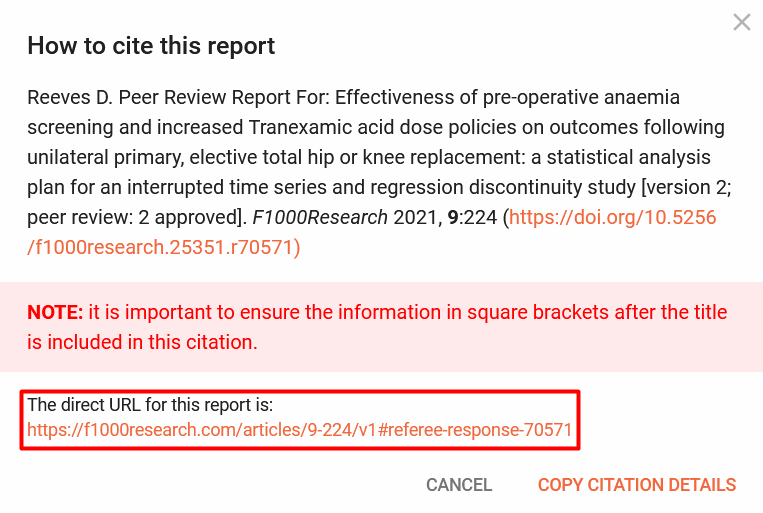
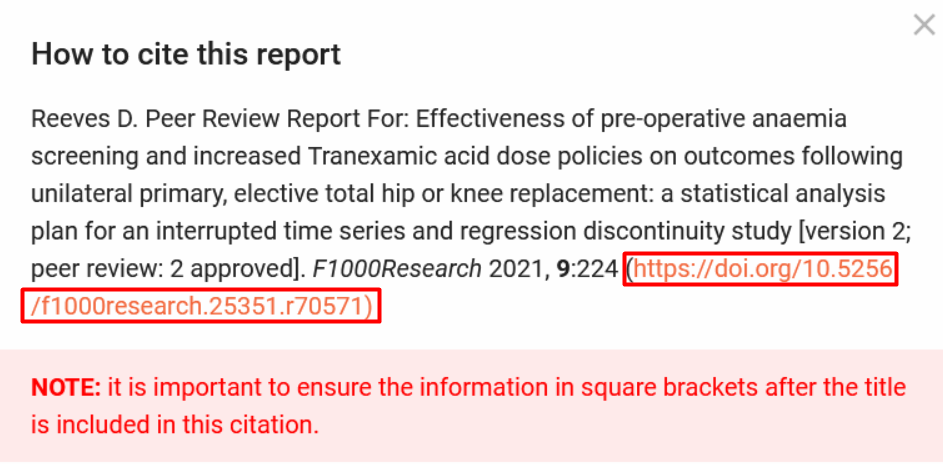
Botón del npm package implementado + cambios menores

diff --git a/rewards-app/src/components/Table/TableReviewers.js b/rewards-app/src/components/Table/TableReviewers.js
@@ -50,7 +50,7 @@ export default class HeaderSearch extends Component {
             var color = stc(reviewer.account)
             return (
                 <Table.Body>
-                    <Table.Row key={key}>
+                    <Table.Row key={reviewer._id}>
                         <Table.Cell textAlign="left">
                             <Header as='h3' textAlign='left'>
                                 <Image
@@ -63,7 +63,7 @@ export default class HeaderSearch extends Component {
                         </Table.Cell>
                         <Table.Cell textAlign='center' >
                             <Header as='h3'>
-                                {thanks[key]}
+                                {thanks[reviewer._id]}
                                         &nbsp;
                                         <Icon name="thumbs up outline" color="blue"></Icon>
                             </Header>
@@ -71,13 +71,13 @@ export default class HeaderSearch extends Component {
                         <Table.Cell>
                             <Header as='h5' textAlign='center'>
                                 <Label color='yellow'>
-                                    {golds[key].length}
+                                    {golds[reviewer._id].length}
                                 </Label>
                                 <Label color='grey'>
-                                    {silvers[key].length}
+                                    {silvers[reviewer._id].length}
                                 </Label>
                                 <Label color='brown'>
-                                    {bronzes[key].length}
+                                    {bronzes[reviewer._id].length}
                                 </Label>
                             </Header>
                         </Table.Cell>

diff --git a/rewards-app/src/components/Profile/Profile.js b/rewards-app/src/components/Profile/Profile.js
@@ -3,6 +3,7 @@ import { Card, Grid, Statistic, Label, Header, List, Image, GridColumn, Containe
 import api from '../../api'
 import boton from './boton.png'
 import './Profile.css'
+import {Button as RewardButton} from '@carlosrodriher/reward-button'
 const stc = require('string-to-color');
 
 
@@ -155,14 +156,9 @@ export default class Profile extends Component {
                                                 <List.Content>
                                                     <List.Header><a href={review.reviewId} target="_blank">{review.title}</a></List.Header>
                                                     {review.description}
-                                                    <Image
-                                                        src={boton}
-                                                        as='a'
-                                                        size='tiny'
-                                                        floated='right'
-                                                        href={`http://localhost:3001/?rev=${review.reviewId}`}
-                                                        target='_blank'
-                                                    />
+                                                    <div class="rewards">
+                                                    <RewardButton review={review.reviewId}></RewardButton>
+                                                    </div>
                                                 </List.Content>
                                                 <List.Description>
                                                     <Modal

diff --git a/rewards-app/src/components/FAQ/faq.js b/rewards-app/src/components/FAQ/faq.js
@@ -89,7 +89,7 @@ const paneles = [
           <Image centered size="medium" src={F10001} />
           <h3>2º: Press the button "Cite this report".</h3>
           <Image centered size="medium" src={F10002} />
-          <h3>3º: You will see the URL at the bottom of the popup.</h3>
+          <h3>3º: Copy the URL that is between parenthesis.</h3>
           <Image centered size="large" src={F10003} />
         </Segment>
         } />
@@ -141,9 +141,9 @@ const paneles = [
           <h3>■ Just tipe this command:</h3>
           <h3>
             <Segment>
-              <p>npm install @carlosrodriher/rewards-button</p>
+              <p>npm install @carlosrodriher/reward-button</p>
               <p>or</p>
-              <p>yarn add @carlosrodriher/rewards-button</p>
+              <p>yarn add @carlosrodriher/reward-button</p>
             </Segment>
           </h3>
           <h3>■ And now you just need to give us the review ID by calling our package.</h3>
@@ -151,7 +151,7 @@ const paneles = [
           <h3>
             <Segment>
               <p>
-                import RewardButton from '@carlosrodriher/rewards-button'
+              import {'Button as RewardButton'} from '@carlosrodriher/reward-button'
               </p>
               <p>
                 {`<RewardButton review="review url"></RewardButton>`}

diff --git a/rewards-app/src/components/Profile/Profile.css b/rewards-app/src/components/Profile/Profile.css
@@ -1,3 +1,7 @@
 .ui.card {
-    border-top: 1px !important; 
+    border-top: 1px !important;
+}
+
+.rewards {
+    float: right;
 }
